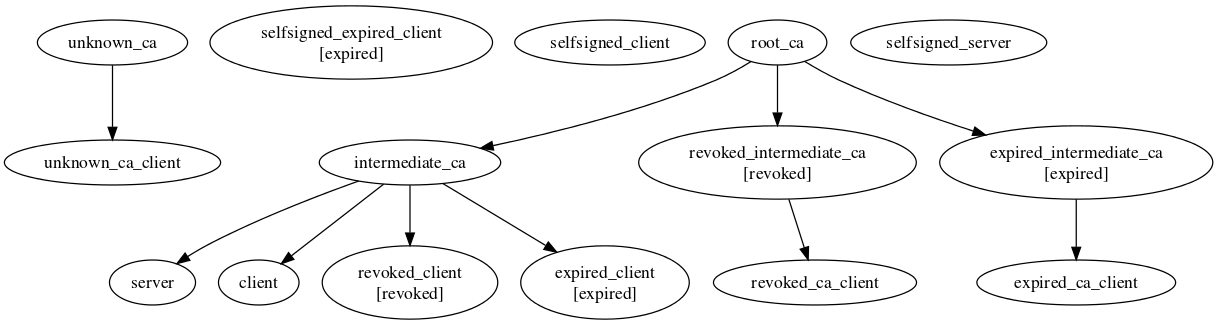
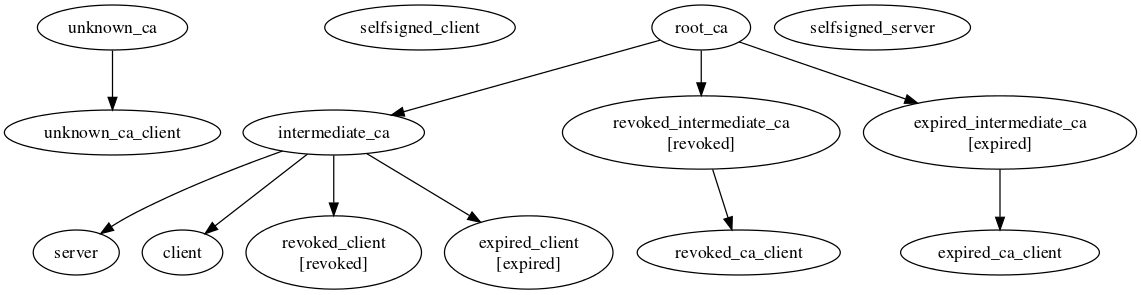
MongooseIM testing

diff --git a/README.md b/README.md
@@ -2,7 +2,7 @@
 Certificates generation for testing. Suite generates normal, expired and revoked certificates.
 
 ## to generate certificates run
-      make [OCSP=true] [FakeTimeCmd=<your command>]
+      make [OCSP=true]
      
 ## generation results
 ![certs_tree](certs_tree.png)
@@ -11,11 +11,12 @@ Certificates generation for testing. Suite generates normal, expired and revoked
 to start CRL distribution points for all the generated CA certificates you can use the next command:
 
     python -m SimpleHTTPServer # run from the root repo directory
+    
 ## OCSP server
-
 to start  OCSP server for CA authority you can use **start_ocsp_server.sh** tool:
 
     tools/start_ocsp_server.sh certificates/root_ca
+    
 ## certificate validation
 to verify certificate you can use **verify_cert.sh** tool, for example:
 ```
@@ -24,23 +25,35 @@ tools/verify_cert.sh --ocsp certificates/revoked_intermediate_ca
 tools/verify_cert.sh --crl certificates/revoked_ca_client
 tools/verify_cert.sh --crl_file certificates/intermediate_ca/crl/crl.pem certificates/revoked_client
 ```
-## FakeTimeCmd
 
-by default **FakeTimeCmd** is set to **datefudge "-180days"** but you can use **faketime** utility instead.
+## what have changed comparing to master branch
 
-there are 2 reasons why we need to fake system time during certificates generation process:
-1) When supplied with **-chain** option, **openssl pkcs12** tool verifies certificate and its CA chain. If any certificate is expired or not valid yet, tool fails with one of these errors:
-   * "**Error certificate is not yet valid getting chain.**"
-   * "**Error certificate has expired getting chain.**"
-  
-   So to generate expired pkcs12 certificate we need to make **openssl pkcs12** tool think that it's valid one, as well as all the CA certificates in the chain.
-2) Also **openssl ca** tool supports **-startdate** and **-enddate** parameters to control start/end date of the issued certificate, while **openssl req** (used for self-singed certificates generation) supports only **-days** parameter to control the length of certificate's validity.
+* no **FakeTimeCmd** - expired certificates generated with **-startdate** and **-enddate** parameters
+* no generation of **selfsigned_expired_client** certificate
+* no pkcs12 certificates generation
+* added id-on-xmppAddr & DNS fields to client/server certificates
 
-so generation of expired certificates is done in the next way:
-1) the system time shifted 180 days backward
-2) all the certificates and CRLs are issued for 365 days, except these 3 certificates:
-   * expired_client
-   * expired_intermediate_client
-   * selfsigned_expired_client
-   
-   they are valid for 90 days only.
+## how to test **cert_utils** module
+```erlang
+LoadCert = fun(PemFile) ->
+  {ok, PemBin} = file:read_file(PemFile),
+  [{'Certificate', DerBin, not_encrypted}|_] = public_key:pem_decode(PemBin),
+  public_key:pkix_decode_cert(DerBin,plain)
+end.
+
+%c(cert_utils).
+l(cert_utils).
+
+CertDir="/git/ssl_testing/certificates/".
+
+[ begin
+    Cert = LoadCert(CertDir ++ C ++ "/certs/cert.pem"),
+    CommonName    = cert_utils:get_common_name(Cert),
+    CertDomains   = cert_utils:get_cert_domains(Cert),
+    DNSAddresses  = cert_utils:get_dns_addresses(Cert),
+    XMPPAddresses = cert_utils:get_xmpp_addresses(Cert),
+    io:format("~n~p~n~30c~n~p~n~p~n~p~n~p~n~30c~n~n", [
+        C, $- ,CommonName, XMPPAddresses,
+        DNSAddresses, CertDomains, $=])
+  end || C <- ["client","server","root_ca"]].
+```
